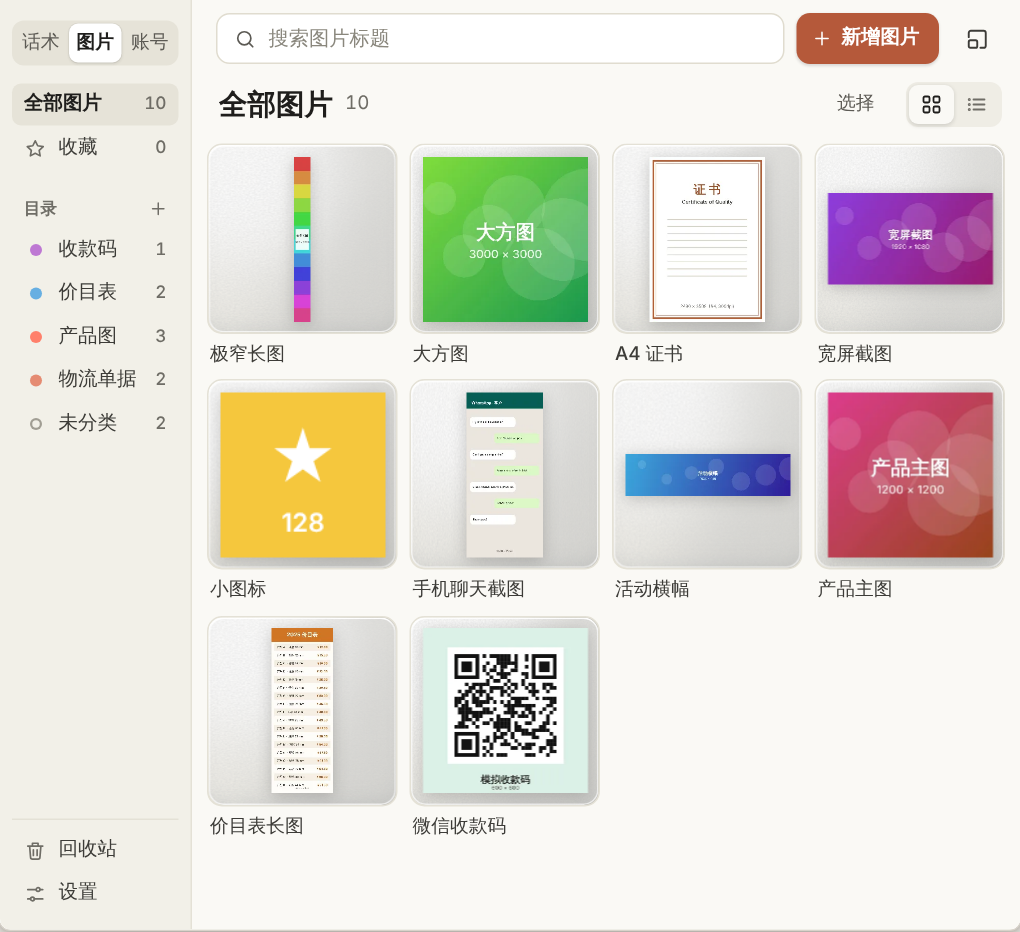
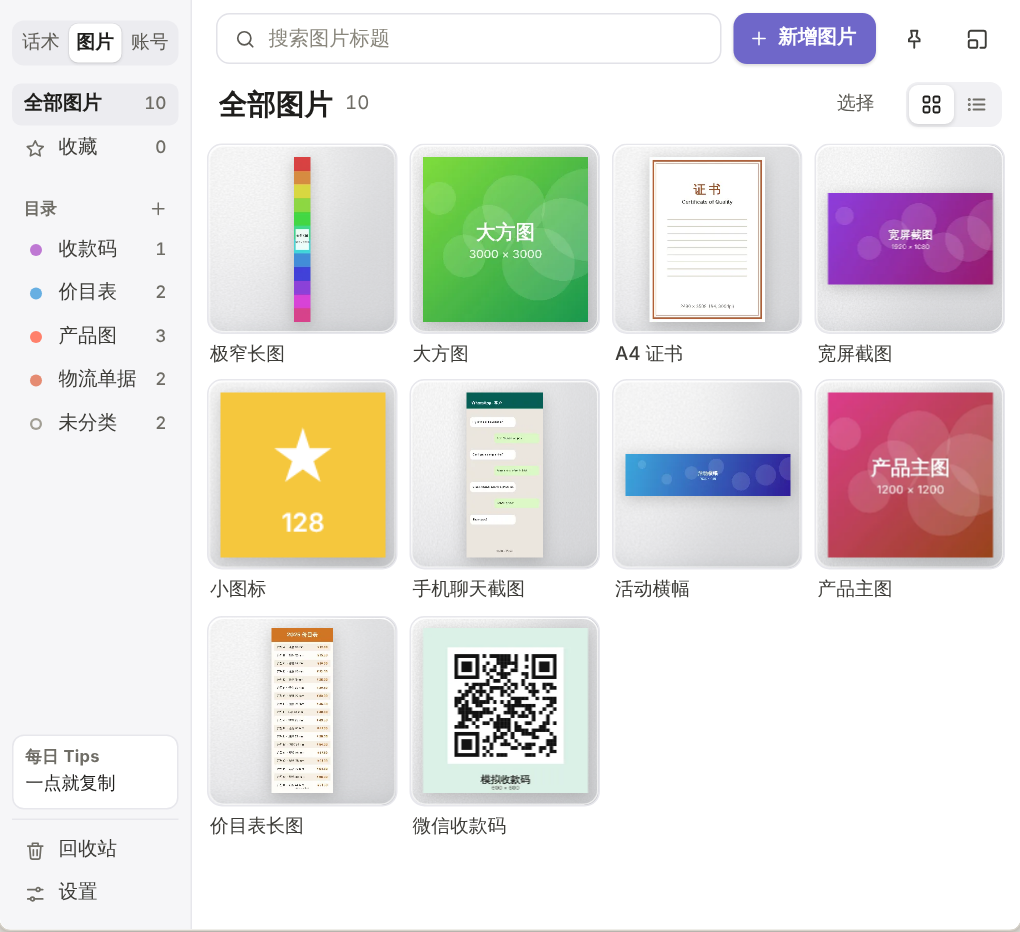
website: white + purple showcase screenshots with made-up 话术
Claude-Session: https://claude.ai/code/session_012oohBdUqwu2WfEUnTqBJKC

Changed region(s): [[0.699, 0.0, 0.9422, 0.0933], [0.0304, 0.809, 0.1216, 0.8712]]

diff --git a/docs/log/2026-10-14-website-copy-current.md b/docs/log/2026-10-14-website-copy-current.md
@@ -1,7 +1,7 @@
 # Website copy matches the app: updates itself, sync code, what goes online
 
 - Date: 2026-10-14 · Thread/agent: 網站 · Cloudflare 與 copyboxx.com
-- What changed: copyboxx.com no longer says the app never updates itself or that it never goes online. The download page explains the automatic update (D-047), the home page, help page and meta description mention the 企业同步码 (D-052) instead of a file or address from an admin, and the privacy page lists the update check and the sync download. The share card says 断网也能用 (regenerated).
+- What changed: copyboxx.com no longer says the app never updates itself or that it never goes online. The download page explains the automatic update (D-047), the home page, help page and meta description mention the 企业同步码 (D-052) instead of a file or address from an admin, and the privacy page lists the update check and the sync download. The share card says 断网也能用 (regenerated). The app screenshots on the site are now white + purple like the site and show made-up 话术 (tools/website/showcase-snippets.csv) instead of the preview's lash-business samples.
 - User-visible change (plain Chinese, for the preview changelog): 无（只改了官网文字）
 - Not done / risks: 无
 - Next step: 无

diff --git a/tools/website/icons/README.md b/tools/website/icons/README.md
@@ -19,4 +19,6 @@ node tools/website/make-icons.mjs
 The ICO is drawn from the brand SVG, so the browser tab shows exactly the app icon (the brand README tested it down to 16 px). The share card uses the brand lockup `docs/brand/lockup-horizontal.svg` and whatever Chinese font the machine has for the headline (on Windows Microsoft YaHei, on a Mac PingFang SC); check the PNG after regenerating.
 
 The app screenshots in `../images/` come from `node tools/website/make-screenshots.mjs` (after `npm run build &&
-npm run preview:build`).
+npm run preview:build`). They import the made-up 话术 in `../showcase-snippets.csv` (no real customers, prices or
+accounts) and recolour the app white + purple to match the site (owner's decision, 2026-10-14); the app itself keeps
+its own colours.
